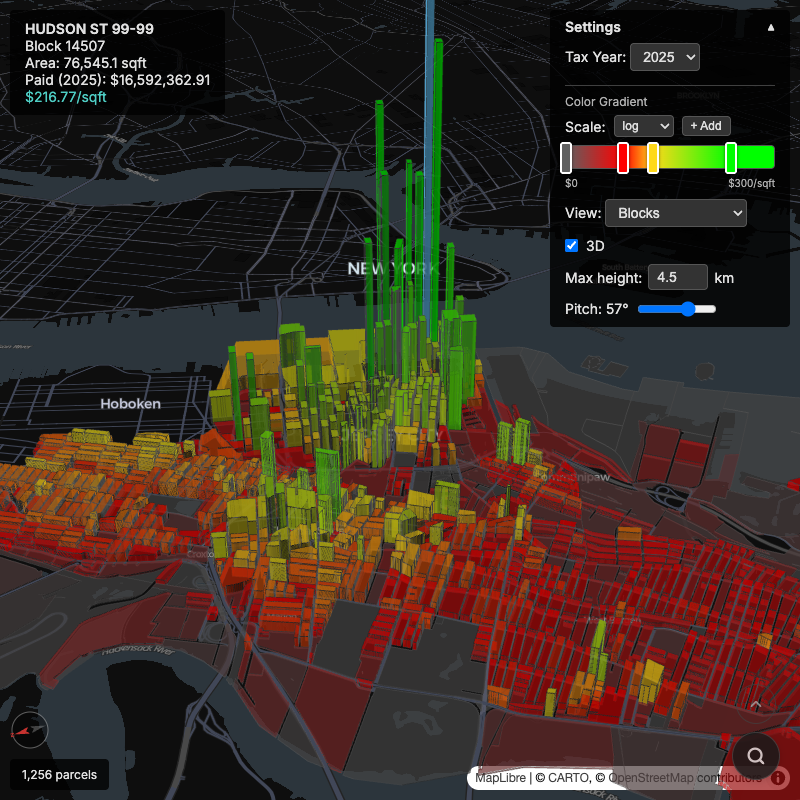
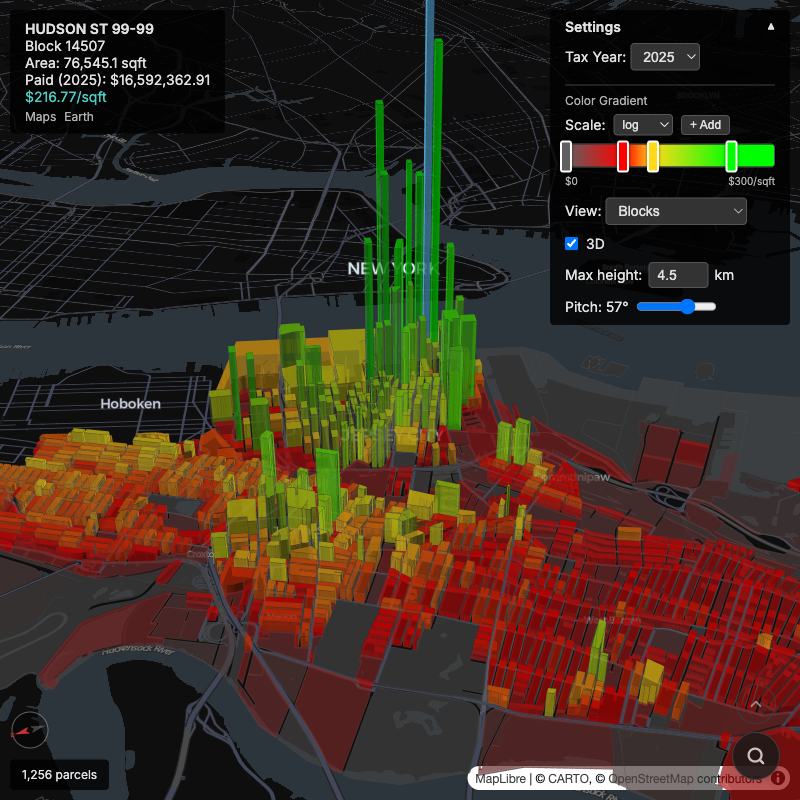
Pin tooltip on selected lot, include address in Maps/Earth links, add e2e tests
Tooltip now shows selected lot info (not hover) when a lot is clicked, so
Maps/Earth links are reachable. Links include the street address in the URL
for Google to pin the location. Add 4 Playwright e2e tests for tooltip
content (building info, links, lot notes). Regen og screenshots + GIF.

diff --git a/www/src/App.tsx b/www/src/App.tsx
@@ -839,12 +839,12 @@ export default function App() {
 
       {/* Hover/selected tooltip */}
       {(hovered || selected) && (() => {
-        const info = hovered ?? selected!
+        const info = selected ?? hovered!
         const isCensus = !!info.geoid || (!!info.ward && !info.block)
         const sqftActive = metricMode === 'per_sqft'
         const hasBuilding = !!(info.stories || info.units || info.yr_built || info.bldg_sqft)
         // Compute centroid for map links
-        const activeId = hovered ? hoveredId : selectedId
+        const activeId = selected ? selectedId : hoveredId
         const feature = activeId && data ? data.find(f => getFeatureId(f) === activeId) : null
         let centroid: [number, number] | null = null
         if (feature?.geometry) {
@@ -924,24 +924,32 @@ export default function App() {
                 ${info.paid_per_capita.toLocaleString()}/capita
               </div>
             )}
-            {centroid && (
-              <div style={{ marginTop: 4, display: 'flex', gap: 8 }}>
-                <a
-                  href={`https://www.google.com/maps/@${centroid[0]},${centroid[1]},19z`}
-                  target="_blank"
-                  rel="noopener noreferrer"
-                  style={linkStyle}
-                  title="Google Maps"
-                >Maps</a>
-                <a
-                  href={`https://earth.google.com/web/@${centroid[0]},${centroid[1]},0a,200d,35y,0h,45t`}
-                  target="_blank"
-                  rel="noopener noreferrer"
-                  style={linkStyle}
-                  title="Google Earth"
-                >Earth</a>
-              </div>
-            )}
+            {centroid && (() => {
+              const addr = info.addr || info.streets
+              const query = addr ? encodeURIComponent(`${addr}, Jersey City, NJ`) : null
+              return (
+                <div style={{ marginTop: 4, display: 'flex', gap: 8 }}>
+                  <a
+                    href={query
+                      ? `https://www.google.com/maps/search/${query}/@${centroid[0]},${centroid[1]},19z`
+                      : `https://www.google.com/maps/@${centroid[0]},${centroid[1]},19z`}
+                    target="_blank"
+                    rel="noopener noreferrer"
+                    style={linkStyle}
+                    title="Google Maps"
+                  >Maps</a>
+                  <a
+                    href={query
+                      ? `https://earth.google.com/web/search/${query}/@${centroid[0]},${centroid[1]},0a,200d,35y,0h,45t`
+                      : `https://earth.google.com/web/@${centroid[0]},${centroid[1]},0a,200d,35y,0h,45t`}
+                    target="_blank"
+                    rel="noopener noreferrer"
+                    style={linkStyle}
+                    title="Google Earth"
+                  >Earth</a>
+                </div>
+              )
+            })()}
           </div>
         )
       })()}

diff --git a/www/e2e/app.spec.ts b/www/e2e/app.spec.ts
@@ -85,6 +85,49 @@ test.describe('Omnibar', () => {
   })
 })
 
+test.describe('Selected lot tooltip', () => {
+  // 302-21 = 638 Liberty Ave: has stories, units, yr_built, bldg_sqft
+  const SEL = '302-21'
+  const ADDR = '638 LIBERTY AVE.'
+
+  test('sel= URL param shows pinned tooltip with address', async ({ page }) => {
+    await page.goto(`/?agg=lot&sel=${SEL}`)
+    await waitForLoad(page)
+    const tooltip = page.locator('text=' + ADDR)
+    await expect(tooltip).toBeVisible({ timeout: 5000 })
+  })
+
+  test('tooltip shows building info', async ({ page }) => {
+    await page.goto(`/?agg=lot&sel=${SEL}`)
+    await waitForLoad(page)
+    // Building info line: "2 stories · 2 units · built 1968 · 2,264 sqft (bldg)"
+    await expect(page.getByText('2 stories')).toBeVisible({ timeout: 5000 })
+    await expect(page.getByText('built 1968')).toBeVisible()
+  })
+
+  test('tooltip has Maps and Earth links with address', async ({ page }) => {
+    await page.goto(`/?agg=lot&sel=${SEL}`)
+    await waitForLoad(page)
+    const mapsLink = page.locator('a', { hasText: 'Maps' })
+    await expect(mapsLink).toBeVisible({ timeout: 5000 })
+    const href = await mapsLink.getAttribute('href')
+    expect(href).toContain('Jersey%20City')
+    expect(href).toContain('LIBERTY')
+    const earthLink = page.locator('a', { hasText: 'Earth' })
+    await expect(earthLink).toBeVisible()
+    const earthHref = await earthLink.getAttribute('href')
+    expect(earthHref).toContain('earth.google.com')
+    expect(earthHref).toContain('Jersey%20City')
+  })
+
+  test('lot note appears for annotated lots', async ({ page }) => {
+    // 26001-47 = 33 Bayside Terrace, has a note
+    await page.goto('/?agg=lot&sel=26001-47')
+    await waitForLoad(page)
+    await expect(page.getByText('lot-line-adjustment remnant')).toBeVisible({ timeout: 5000 })
+  })
+})
+
 test.describe('Settings panel', () => {
   test('s toggles settings panel', async ({ page }) => {
     await page.goto('/')

diff --git a/README.md b/README.md
@@ -22,6 +22,7 @@ src/jc_taxes/       Python package: scrape, process, export
   api.py            HLS API client
   payments.py       Extract yearly payment totals from cached JSONs
   geojson_yearly.py Join payments + geometries → GeoJSON per year/aggregation
+  building_desc.py  Parse encoded Building Desc field (stories, units, etc.)
   census.py         Census block + ward geometry/population processing
 data/               Parcel data, payment caches, parquet exports
 census/             Census block geometries, ward boundaries, population

diff --git a/www/README.md b/www/README.md
@@ -32,6 +32,7 @@ Data files (`taxes-{year}-{agg}.geojson`) are [DVC]-tracked in `public/`. In dev
 | `src/useParcelSearch.ts` | Omnibar endpoint: fuzzy search parcels by address/block/owner |
 | `src/useTouchPitch.ts` | Two-finger pitch gesture for mobile (deck.gl workaround) |
 | `src/ThemeContext.tsx` | Dark/light theme with per-theme gradient defaults, URL-persisted color stops |
+| `src/notes.ts` | Per-lot hoverbox notes for known anomalies |
 | `src/types.ts` | `ParcelProperties`, `ParcelFeature` types |
 
 ## URL params
